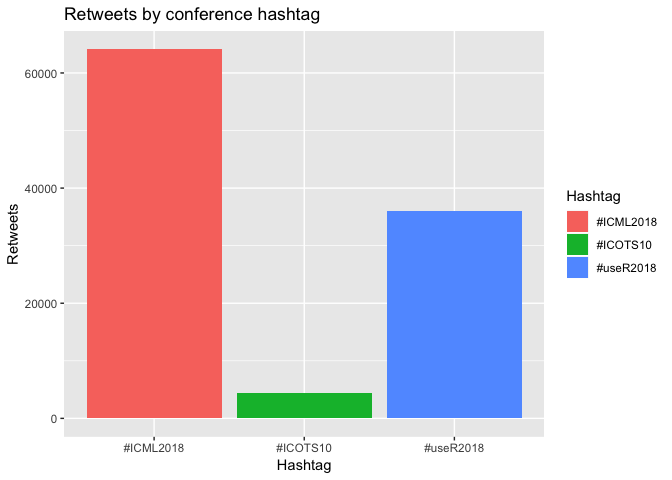
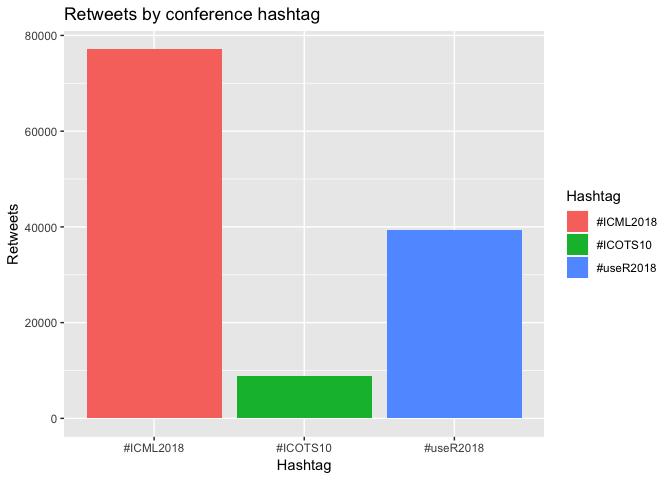
New resources, rerun of tweets

diff --git a/_posts/2018-07-11-icots10-tweets.md b/_posts/2018-07-11-icots10-tweets.md
@@ -7,7 +7,19 @@ tags:
   - social-media
 ---
 
-This tweet got me thinking, and I've wanted to use the `twitteR` or `rtweet` package for a while...
+-   [How about number of retweets by conference?](#how-about-number-of-retweets-by-conference)
+-   [Number of favourites?](#number-of-favourites)
+-   [What about percentage of tweets getting favourited or retweeted?](#what-about-percentage-of-tweets-getting-favourited-or-retweeted)
+-   [Which tweets saw the most retweets?](#which-tweets-saw-the-most-retweets)
+-   [The most favourites?](#the-most-favourites)
+-   [Emojis ❤](#emojis)
+-   [Checking if we can scrape the emoji lists](#checking-if-we-can-scrape-the-emoji-lists)
+-   [Scraping the emoji lists](#scraping-the-emoji-lists)
+-   [Is this just because of emoji spammers?](#is-this-just-because-of-emoji-spammers)
+-   [More from ICOTS](#more-from-icots)
+    -   [Vanity time: My best tweets?](#vanity-time-my-best-tweets)
+
+A tweet comparing ICML and useR got me thinking, and I've wanted to use the `twitteR` or `rtweet` package for a while...
 
 <blockquote class="twitter-tweet" data-lang="en">
 <p lang="en" dir="ltr">
@@ -16,8 +28,7 @@ How does <a href="https://twitter.com/hashtag/ICOTS10?src=hash&amp;ref_src=twsrc
 — Kelly Bodwin (@KellyBodwin) <a href="https://twitter.com/KellyBodwin/status/1016743797550485505?ref_src=twsrc%5Etfw">July 10, 2018</a>
 </blockquote>
 <script async src="https://platform.twitter.com/widgets.js" charset="utf-8"></script>
-
-*Last updated:* 12 Jul approx 10:00am Kyoto time.
+*Last updated:* 12 Jul approx 9:33pm Kyoto time.
 
 Here are some libraries we'll use. (Also note that I made a [GitHub gist with the code to get from the beginning to the first graph](https://gist.github.com/elb0/221b98cd7f89674515f2a25a6cde5859).) I couldn't get the authentication to work for `rtweet`, unfortunately.
 
@@ -37,7 +48,9 @@ library(data.table)
 
 Just one thing to be careful of, you'll need to get your own twitter keys. [This might be quite helpful](https://medium.com/@GalarnykMichael/accessing-data-from-twitter-api-using-r-part1-b387a1c7d3e). I had to reset my keys to get the code to work. Not sure why, but [others have had the same issue](https://github.com/geoffjentry/twitteR/issues/74).
 
-`# setup_twitter_oauth(consumer_key, consumer_secret, access_token, access_secret)`
+{% highlight r %}
+setup_twitter_oauth(consumer_key, consumer_secret, access_token, access_secret)
+{% endhighlight %}
 
     ## [1] "Using direct authentication"
 
@@ -81,8 +94,6 @@ all_tweets = rbind(icots_tweets, user_tweets, icml_tweets) %>%
   filter(!str_detect(text, "Ethlimited"))
 {% endhighlight %}
 
-    ## Warning: package 'bindrcpp' was built under R version 3.4.4
-
 {% highlight r %}
 all_noRT = rbind(icots_noRT, user_noRT, icml_noRT) %>%
   mutate(date = format(created, format="%Y-%m-%d")) %>%
@@ -103,7 +114,7 @@ all_tweets %>%
   ggtitle("Battle of the conference hashtags")
 {% endhighlight %}
 
-![](conferencetweets_files/figure-markdown_github/graph-1.png)
+![]({{site.baseurl}}/images/conferencetweets_files/figure-markdown_github/graph-1.png)
 
 {% highlight r %}
 all_noRT %>%
@@ -116,7 +127,7 @@ all_noRT %>%
   ggtitle("Battle of the conference hashtags - retweets removed")
 {% endhighlight %}
 
-![](conferencetweets_files/figure-markdown_github/graph-2.png)
+![]({{site.baseurl}}/images/conferencetweets_files/figure-markdown_github/graph-2.png)
 
 ### How about number of retweets by conference?
 
@@ -129,7 +140,7 @@ all_tweets %>%
   ggtitle("Retweets by conference hashtag")
 {% endhighlight %}
 
-![](conferencetweets_files/figure-markdown_github/biggest_retweets-1.png)
+![]({{site.baseurl}}/images/conferencetweets_files/figure-markdown_github/biggest_retweets-1.png)
 
 ### Number of favourites?
 
@@ -142,7 +153,7 @@ all_tweets %>%
   ggtitle("Favourites by hashtag")
 {% endhighlight %}
 
-![](conferencetweets_files/figure-markdown_github/biggest_favourites-1.png)
+![]({{site.baseurl}}/images/conferencetweets_files/figure-markdown_github/biggest_favourites-1.png)
 
 ### What about percentage of tweets getting favourited or retweeted?
 
@@ -163,7 +174,7 @@ all_noRT %>%
   scale_y_continuous(labels = scales::percent)
 {% endhighlight %}
 
-![](conferencetweets_files/figure-markdown_github/percentages-1.png)
+![]({{site.baseurl}}/images/conferencetweets_files/figure-markdown_github/percentages-1.png)
 
 The retweets are strong with \#ICOTS10!
 
@@ -185,7 +196,7 @@ topretweetuser = toptweet %>%
   filter(Hashtag == "#useR2018")
 {% endhighlight %}
 
-Check out the most retweeted [ICOTS tweet](https://twitter.com/anyuser/status/1017204452778913792), [ICML tweet](https://twitter.com/anyuser/status/1017212058238980097) and [useR tweet](https://twitter.com/anyuser/status/1017200266238726146).
+Check out the most retweeted [ICOTS tweet](https://twitter.com/anyuser/status/1017390498275909634), [ICML tweet](https://twitter.com/anyuser/status/1017383089415380993) and [useR tweet](https://twitter.com/anyuser/status/1017379649549144067).
 
 ### The most favourites?
 
@@ -205,15 +216,15 @@ topfavuser = topfav %>%
   filter(Hashtag == "#useR2018")
 {% endhighlight %}
 
-Check out the most favourited [ICOTS tweet](https://twitter.com/anyuser/status/1016569243947724800), [ICML tweet](https://twitter.com/anyuser/status/1016957218829361152) and [useR tweet](https://twitter.com/anyuser/status/1016860465807257600).
+Check out the most favourited [ICOTS tweet](https://twitter.com/anyuser/status/1016569243947724800), [ICML tweet](https://twitter.com/anyuser/status/1017059295052140544) and [useR tweet](https://twitter.com/anyuser/status/1016912611529510913).
 
 ### Emojis ❤
 
-What better place to explore emojis from that the country that gave us the language that gave us the word! Ya follow? Emoji is a Japanese word that, if a quick Google search is to be believed, means "picture character".
+What better place to explore emojis from than the country that gave us the language that gave us the word! Ya follow? Emoji is a Japanese word that, if a quick Google search is to be believed, means "picture character".
 
-Anna Fergusson, \[@annafergussonnz\](<https://twitter.com/annafergussonnz>), and I, in our talk on [modern data in a large introductory statistics course](https://annafergusson.github.io/paristergram/), tried to quickly show how emoji analysis can be a bit of fun. So let's keep that up here.
+Anna Fergusson, \[@annafergussonnz\](<https://twitter.com/annafergussonnz>), and I, in our talk on [modern data in a large introductory statistics course](https://annafergusson.github.io/paristergram/) based on the awesome work Anna has been driving, tried to quickly show how emoji analysis can be a bit of fun. So let's keep that up here.
 
-This first section is mostly jsut copied from the work Anna and I did that will be up on the \[Parisgram\]((<https://annafergusson.github.io/paristergram/>) at somepoint. The emoji handling is not very elegant right now.
+This first section is mostly just copied from the work Anna and I did that will be up on the \[Parisgram site\]((<https://annafergusson.github.io/paristergram/>) at somepoint. The emoji handling is not very elegant right now.
 
 There is a table provided by the Unicode organisation that has the emoji, and an additional one that details skintone variations. These also provide a text description and groups the emoji into wider groups, like flags, buildings, types of facial expression etc. It would be ideal to have that information in R to work with directly, so I want to scrape the tables into R. I can check if this seems to be allowed by using the `robotstxt` package. There are a range of other ways to get databases like this, this just seemed easiest for this case.
 
@@ -223,11 +234,13 @@ There is a table provided by the Unicode organisation that has the emoji, and an
 # These are the url with the  list of emoji codes from Unicode
 url_base = "https://unicode.org/emoji/charts/full-emoji-list.html"
 url_skin = "https://unicode.org/emoji/charts/full-emoji-modifiers.html"
+{% endhighlight %}
 
+{% highlight r %}
 # We can check out the robots.txt file right from R
 robotstxt::get_robotstxt("unicode.org")
-
 {% endhighlight %}
+
 I've removed the output, but when I ran it, the bits we wanted were okay, and the crawl delays were only for certain bots.
 
 The `paths_allowed()` functions will return true if the path is allowed, based on the robots.txt file for the domain.
@@ -247,8 +260,6 @@ robotstxt::paths_allowed(url_skin)
 Both come back `TRUE`, we are allowed to scrape them.
 
 ### Scraping the emoji lists
-
-As we discovered above, we are allowed to scrape this site, they just ask we don't scrape more than once a minute.
 
 {% highlight r %}
 emoji_base = read_html(url_base) %>%
@@ -392,15 +403,13 @@ emoji_counts_icots = emoji_ref %>%
 emoji_counts_icots
 {% endhighlight %}
 
-    ## # A tibble: 6 x 3
+    ## # A tibble: 4 x 3
     ##   emoji short_name                   counts
     ##   <chr> <fct>                         <int>
     ## 1 😍    smiling face with heart-eyes      8
-    ## 2 👏    clapping hands                    5
-    ## 3 😂    face with tears of joy            2
-    ## 4 🐱    cat face                          2
-    ## 5 🎨    artist palette                    2
-    ## 6 🎼    musical score                     2
+    ## 2 🔥    fire                              6
+    ## 3 👏    clapping hands                    5
+    ## 4 😂    face with tears of joy            3
 
 #### Top \#useR2018 emoji
 
@@ -422,10 +431,10 @@ emoji_counts_user
     ## # A tibble: 4 x 3
     ##   emoji short_name                   counts
     ##   <chr> <fct>                         <int>
-    ## 1 📦    package                          12
-    ## 2 👌    OK hand                          11
-    ## 3 😍    smiling face with heart-eyes      9
-    ## 4 🌧    cloud with rain                   9
+    ## 1 🏉    rugby football                   18
+    ## 2 📦    package                          16
+    ## 3 🌧    cloud with rain                   9
+    ## 4 😍    smiling face with heart-eyes      7
 
 #### Top \#ICML2018 emoji
 
@@ -444,7 +453,7 @@ emoji_counts_icml = emoji_ref %>%
 emoji_counts_icml
 {% endhighlight %}
 
-    ## # A tibble: 7 x 3
+    ## # A tibble: 6 x 3
     ##   emoji short_name                      counts
     ##   <chr> <fct>                            <int>
     ## 1 🔥    fire                                 8
@@ -453,7 +462,108 @@ emoji_counts_icml
     ## 4 🤔    thinking face                        2
     ## 5 🙌    raising hands                        2
     ## 6 ✈    airplane                             2
-    ## 7 ✔    heavy check mark                     2
+
+Previous tops here:
+<blockquote class="twitter-tweet" data-lang="en">
+<p lang="en" dir="ltr">
+Top 5ish emojis from three different conferences (as of 15 mins ago). Ranked 1-5ish, left to right, in ( ) means equal counts.<a href="https://twitter.com/hashtag/ICOTS10?src=hash&amp;ref_src=twsrc%5Etfw">\#ICOTS10</a> 😍👏(😂🐱🎨🎼)<a href="https://twitter.com/hashtag/useR2018?src=hash&amp;ref_src=twsrc%5Etfw">\#useR2018</a>: 📦👌(😍🌧)<a href="https://twitter.com/hashtag/ICML2018?src=hash&amp;ref_src=twsrc%5Etfw">\#ICML2018</a>: 🔥😂(😁🤔🙌✈✔)<br><br>Code: <a href="https://t.co/yixpezWy8p">https://t.co/yixpezWy8p</a><br>Of course, this tweet will mess it up!
+</p>
+— Liza Bolton (@Liza\_Bolton) <a href="https://twitter.com/Liza_Bolton/status/1017216200697212928?ref_src=twsrc%5Etfw">July 12, 2018</a>
+</blockquote>
+<script async src="https://platform.twitter.com/widgets.js" charset="utf-8"></script>
+### Is this just because of emoji spammers?
+
+I know at least one of my tweets had a gratuitous number of hand clap emojis. What if we limit to one per Tweet? Does that change the top used emoji? `str_detect` is quie useful for that.
+
+{% highlight r %}
+emoji_counter_single = function(data_col, emoji_from_ref){
+  counts = tryCatch({
+    sum(str_detect(data_col, emoji_from_ref))
+  }, error=function(e)counts=NA, {}
+  )
+  return(counts)
+}
+{% endhighlight %}
+
+#### Top \#ICOTS10 emojis - less spammy
+
+{% highlight r %}
+# This can take a bit of time to run
+emoji_counts_icots_ = emoji_ref %>%
+  rowwise() %>%
+  mutate(counts = NA) %>%
+  mutate(counts = emoji_counter_single(emoji_spread_icots$all, emoji)) %>%
+  arrange(number) %>%
+  mutate(rank = round(rank(-counts), 0)) %>%
+  select(-c(character_length, number)) %>%
+  filter(counts > 0) %>%
+  arrange(desc(counts)) %>%
+  filter(rank <= 5) %>%
+  select(emoji, short_name, counts)
+emoji_counts_icots_
+{% endhighlight %}
+
+    ## # A tibble: 7 x 3
+    ##   emoji short_name                   counts
+    ##   <chr> <fct>                         <int>
+    ## 1 😍    smiling face with heart-eyes      4
+    ## 2 😂    face with tears of joy            3
+    ## 3 ❤    red heart                         2
+    ## 4 🐱    cat face                          2
+    ## 5 🔥    fire                              2
+    ## 6 🎨    artist palette                    2
+    ## 7 🎼    musical score                     2
+
+#### Top \#useR2018 emoji - less spammy
+
+{% highlight r %}
+emoji_counts_user_ = emoji_ref %>%
+  rowwise() %>%
+  mutate(counts = NA) %>%
+  mutate(counts = emoji_counter_single(emoji_spread_user$all, emoji)) %>%
+  arrange(number) %>%
+  mutate(rank = round(rank(-counts), 0)) %>%
+  select(-c(character_length, number)) %>%
+  filter(counts > 0)  %>%
+  arrange(desc(counts)) %>%
+  filter(rank <= 5) %>%
+  select(emoji, short_name, counts)
+emoji_counts_user_
+{% endhighlight %}
+
+    ## # A tibble: 3 x 3
+    ##   emoji short_name                   counts
+    ##   <chr> <fct>                         <int>
+    ## 1 📦    package                          14
+    ## 2 😂    face with tears of joy            6
+    ## 3 😍    smiling face with heart-eyes      5
+
+#### Top \#ICML2018 emoji - less spammy
+
+{% highlight r %}
+emoji_counts_icml_ = emoji_ref %>%
+  rowwise() %>%
+  mutate(counts = NA) %>%
+  mutate(counts = emoji_counter_single(emoji_spread_icml$all, emoji)) %>%
+  arrange(number) %>%
+  mutate(rank = round(rank(-counts), 0)) %>%
+  select(-c(character_length, number)) %>%
+  filter(counts > 0)  %>%
+  arrange(desc(counts)) %>%
+  filter(rank <= 5) %>%
+  select(emoji, short_name, counts)
+emoji_counts_icml_
+{% endhighlight %}
+
+    ## # A tibble: 6 x 3
+    ##   emoji short_name                      counts
+    ##   <chr> <fct>                            <int>
+    ## 1 😂    face with tears of joy               2
+    ## 2 😄    grinning face with smiling eyes      2
+    ## 3 🤔    thinking face                        2
+    ## 4 🙌    raising hands                        2
+    ## 5 ✈    airplane                             2
+    ## 6 🔥    fire                                 2
 
 More from ICOTS
 ---------------
@@ -477,25 +587,13 @@ mytweets = all_tweets %>%
 
 myprop = dim(mytweets)[1]/dim(icots_tweets)[1]
 
-mytweets %>%
+myfavtweets = mytweets %>%
   arrange(desc(retweetCount)) %>%
-  select(text, retweetCount) %>%
-  head()
+  select(text, retweetCount, favoriteCount) %>%
+  filter(retweetCount == max(retweetCount)) %>%
+  filter(favoriteCount == max(favoriteCount))
 {% endhighlight %}
 
-    ##                                                                                                                                                             text
-    ## 1                   Our brains can be huge drama mongers - learning how to think through these dramatic instincts is a key part of unde… https://t.co/lDqEq1DkFV
-    ## 2 Practical advice for Stats educators from @hspter:\n\U0001f469\U0001f3eb "Teach design as a fundamental process that is independent o… https://t.co/MCzUNRhu3y
-    ## 3                    "What should we want most for our students? The ability to do things machines can't do!" - Chris Wild (Session 9A)… https://t.co/dYN7aIkZPa
-    ## 4                                                         The 10 chapters of #Factfulness help us manage our dramatic instincts #icots10 https://t.co/3AEqTTpukr
-    ## 5                    Why did more Swedes know extreme poverty had halved? When asked they wrote in "Hans Rosling". I teared up. #icots10 https://t.co/6OZvFfbktY
-    ## 6                   "Crime data doesn't exist...the only things we have is arrest data". -@jo_hardin47 (Session 3A) some great points a… https://t.co/DOf6eGgIqJ
-    ##   retweetCount
-    ## 1            8
-    ## 2            8
-    ## 3            7
-    ## 4            5
-    ## 5            5
-    ## 6            4
+[Turns out this one had the most retweets](https://twitter.com/anyuser/status/), with 9 retweets and 31 favourites. Thanks guys!
 
 I tweeted 7% of the \#ICOTS10 tweets.

diff --git a/_posts/2018-07-09-icots10.md b/_posts/2018-07-09-icots10.md
@@ -16,6 +16,8 @@ This list is to help me keep track of all the things I want to check after this 
 
 ---
 
+##{.tabset}
+
 ## Books
 A Goodreads list [here](https://www.goodreads.com/review/list/44982838-liza?shelf=icots10).
   - *The Art of Data Science: A Guide for Anyone Who Works with Data* by Roger Peng and Elizabeth Matsui (as mentioned in Hilary Parker's keynote, Parker and Peng podcast together)
@@ -37,6 +39,11 @@ by Alfred Rappaport - not sure if this was an intentional recommendation by Chri
   - [The Art of Data Science by Richard Boire](https://www.predictiveanalyticsworld.com/patimes/the-art-of-data-science/9475/)
   - [A Survey of Statistical Capstone Projects by Susan E. Martonosi and Talithia D. Williams](https://amstat.tandfonline.com/doi/full/10.1080/10691898.2016.1257927)
   - All the articles in [Hadley Wickham](https://twitter.com/hadleywickham) and [Jenny Bryan](https://twitter.com/JennyBryan)'s PeerJ Collection [Practical Data Science for Stats](https://peerj.com/collections/50-practicaldatascistats/)
+  - [Rolf Biehler's paper](https://iase-web.org/documents/intstatreview/97.Biehler.pdf) from 20 years ago on software for teaching and learnign statistics, recommended by Mine Çetinkaya-Rundel, [@minebocek](https://twitter.com/minebocek), after session 1B today.
+  <blockquote class="twitter-tweet" data-lang="en"><p lang="en" dir="ltr"><a href="https://twitter.com/hashtag/icots10?src=hash&amp;ref_src=twsrc%5Etfw">#icots10</a> session on statistical education software, revisiting and reflecting on Rolf Biehler&#39;s paper on this topic from 20 years ago! <a href="https://t.co/XrCulaHyvX">https://t.co/XrCulaHyvX</a></p>&mdash; Mine CetinkayaRundel (@minebocek) <a href="https://twitter.com/minebocek/status/1017228067150786560?ref_src=twsrc%5Etfw">July 12, 2018</a></blockquote>
+<script async src="https://platform.twitter.com/widgets.js" charset="utf-8"></script>
+- I asked philosopher Karen François what article of a philosophical nature she would want all statisticians to read, and she recommended ["Beyond subjective and objective in statistics" by Andrew Gelman and Christian Hennig](https://doi.org/10.1111/rssa.12276). She also references ["The ethics of algorithms: Mapping the debate" by
+Brent Daniel Mittelstadt, Patrick Allo, Mariarosaria Taddeo, Sandra Wachter, and Luciano Floridi](http://journals.sagepub.com/doi/full/10.1177/2053951716679679).
 
 ## Podcasts
   - Hilary Parker and Roger Peng's [Not So Standard Deviations](http://nssdeviations.com/). Hilary Parker, [@hspter](https://twitter.com/hspter), was an awesome keynote speaker (Monday 9, July), too.
@@ -54,6 +61,14 @@ Tuesday
 
 Thursday
   - Chris Wild's keynote ["Through a glass darkly"](https://www.stat.auckland.ac.nz/~wild/talks/ICOTS2018/) - another truly Wild talk
+  - Amelia McNamara's, [@AmeliaMN](https://twitter.com/AmeliaMN), talk on ["Imagining the future of statistical software"](http://www.science.smith.edu/~amcnamara/ImaginingTheFuture.pdf). Lots of great short links to resources in here, too!
+  <blockquote class="twitter-tweet" data-lang="en"><p lang="en" dir="ltr">Slides for my talk, Imagining the future of statistical education software. <a href="https://twitter.com/hashtag/icots10?src=hash&amp;ref_src=twsrc%5Etfw">#icots10</a> <a href="https://t.co/Rzc213N38T">https://t.co/Rzc213N38T</a> <a href="https://t.co/IC5UUwul8s">pic.twitter.com/IC5UUwul8s</a></p>&mdash; Amelia McNamara (@AmeliaMN) <a href="https://twitter.com/AmeliaMN/status/1017225360050515968?ref_src=twsrc%5Etfw">July 12, 2018</a></blockquote>
+  <script async src="https://platform.twitter.com/widgets.js" charset="utf-8"></script>
+  - Jackie Carter's, (@JackieCarter)[https://twitter.com/JackieCarter], talk on ["Innovations in statistical (by stealth) training: reflections from the UK Q-step Initiative"](https://www.slideshare.net/zzalszjc/icots2018-carter).
+  <blockquote class="twitter-tweet" data-lang="en"><p lang="en" dir="ltr">Speaking at 2pm today as <a href="https://twitter.com/hashtag/ICOTS10?src=hash&amp;ref_src=twsrc%5Etfw">#ICOTS10</a>. Slides at <a href="https://t.co/zUGG6hjiJt">https://t.co/zUGG6hjiJt</a>  <a href="https://twitter.com/hashtag/qstep?src=hash&amp;ref_src=twsrc%5Etfw">#qstep</a> <a href="https://twitter.com/NuffieldFound?ref_src=twsrc%5Etfw">@NuffieldFound</a> <a href="https://twitter.com/UoMQStep?ref_src=twsrc%5Etfw">@UoMQStep</a> <a href="https://t.co/L6GoJiUDIb">pic.twitter.com/L6GoJiUDIb</a></p>&mdash; Prof Jackie Carter (@JackieCarter) <a href="https://twitter.com/JackieCarter/status/1017242876885942273?ref_src=twsrc%5Etfw">July 12, 2018</a></blockquote>
+<script async src="https://platform.twitter.com/widgets.js" charset="utf-8"></script>
+
+
 
 ## Tweets
 Follow ICOTS10 tweeps on [this list](https://twitter.com/Liza_Bolton/lists/icots-10/members). If I missed you, [let me know](https://twitter.com/Liza_Bolton).
